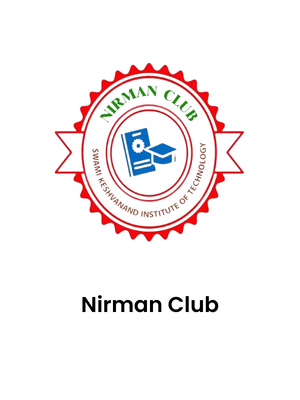
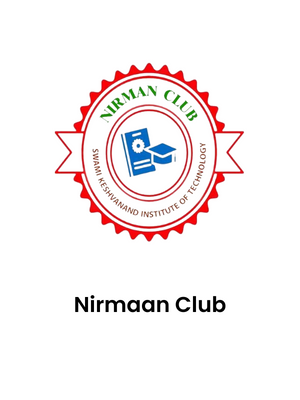
nirmaan & Music Club

Changed region(s): [[0.24, 0.72, 0.75, 0.78]]

diff --git a/pages/clubs/clubs.html b/pages/clubs/clubs.html
@@ -123,6 +123,19 @@
                 <input type="checkbox" class="flipcard">
                 <div class="card">
                     <div class="front card-face">
+                        <img src="/pages/clubs/img/17.png" alt="" class="card-photo">
+                    </div>
+                    <div class="back card-face">
+                        <p><b>Faculty Coordinator</b> <br>Dr. Manasvi Dixit &nbsp; <br>Ms. Sumita<br><b> Student Coordinator</b> <br>
+                            Priyansh Lavadia<br>Shipli Shukla<br> 8441070346</p>
+
+                    </div>
+                </div>
+            </label>
+            <label class="card-wrap">
+                <input type="checkbox" class="flipcard">
+                <div class="card">
+                    <div class="front card-face">
                         <img src="/pages/clubs/img/3.png" alt="" class="card-photo">
                     </div>
                     <div class="back card-face">
